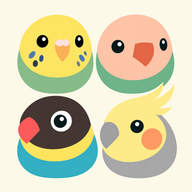
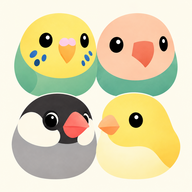
名称をことり日和へ、連絡先をcontact@hijikilabo.comへ変更し、写真の上限説明を更新する
アプリ側の3ページと見出しのアイコン（4羽のA案）を反映。トップページとREADMEも改名。

diff --git a/support.html b/support.html
@@ -4,19 +4,19 @@
   <meta charset="utf-8"><meta name="viewport" content="width=device-width,initial-scale=1,viewport-fit=cover">
   <meta http-equiv="Content-Security-Policy" content="default-src 'self'; style-src 'self'; img-src 'self'; object-src 'none'; base-uri 'self'; form-action 'none'">
   <meta name="theme-color" content="#406553">
-  <title>サポート · インコ日和</title>
+  <title>サポート · ことり日和</title>
   <link rel="stylesheet" href="./legal.css">
 </head>
 <body>
 <div class="wrap">
-  <header><img src="./icon-inko-192.png" alt=""><a href="./">インコ日和</a></header>
+  <header><img src="./icon-inko-192.png" alt=""><a href="./">ことり日和</a></header>
   <h1>サポート</h1>
   <p class="meta">愛鳥との毎日を、やさしく記録するアプリです。</p>
 
   <section>
     <h2>お問い合わせ</h2>
     <p>不具合のご報告、ご質問、ご要望は、次のメールアドレスまでお送りください。</p>
-    <p><strong><a href="mailto:kokumei.passport.support@gmail.com?subject=%E3%82%A4%E3%83%B3%E3%82%B3%E6%97%A5%E5%92%8C%E3%81%AB%E3%81%A4%E3%81%84%E3%81%A6">kokumei.passport.support@gmail.com</a></strong></p>
+    <p><strong><a href="mailto:contact@hijikilabo.com?subject=%E3%81%93%E3%81%A8%E3%82%8A%E6%97%A5%E5%92%8C%E3%81%AB%E3%81%A4%E3%81%84%E3%81%A6">contact@hijikilabo.com</a></strong></p>
     <p>個人で開発しているため、お返事までに数日かかることがあります。また、すべてのご要望にお応えできない場合があります。</p>
     <h3>不具合のご報告に書いていただきたいこと</h3>
     <ul>
@@ -59,14 +59,14 @@
     <details>
       <summary>通知が届きません</summary>
       <ul>
-        <li>iPhoneの「設定 → 通知 → インコ日和」で通知が許可されているか確認してください。</li>
+        <li>iPhoneの「設定 → 通知 → ことり日和」で通知が許可されているか確認してください。</li>
         <li>集中モードや消音の設定によっては、通知が表示されなかったり音が鳴らなかったりします。</li>
       </ul>
     </details>
 
     <details>
       <summary>写真や動画が追加できません</summary>
-      <p>写真・動画は合計100件、データ全体は約38MBまで保存できます。上限に近い場合は、バックアップを書き出してから不要な写真や動画を削除してください。画像は1枚25MB以下、動画は1本8MB以下のものを選んでください。</p>
+      <p>写真・動画は合計100件まで（iPhone版のプレミアムでは1,000件まで）保存できます。iPhone版の写真・動画は端末の空き容量も使います。上限に近い場合は、バックアップを書き出してから不要な写真や動画を削除してください。画像は1枚25MB以下、動画は1本8MB以下のものを選んでください。</p>
     </details>
 
     <details>
@@ -101,7 +101,7 @@
   </section>
 
   <nav class="links"><a href="./privacy.html">プライバシーポリシー</a><a href="./tokushoho.html">特定商取引法に基づく表記</a><a href="./">トップ</a></nav>
-  <footer>© 2026 インコ日和</footer>
+  <footer>© 2026 ことり日和</footer>
 </div>
 </body>
 </html>

diff --git a/privacy.html b/privacy.html
@@ -4,24 +4,24 @@
   <meta charset="utf-8"><meta name="viewport" content="width=device-width,initial-scale=1,viewport-fit=cover">
   <meta http-equiv="Content-Security-Policy" content="default-src 'self'; style-src 'self'; img-src 'self'; object-src 'none'; base-uri 'self'; form-action 'none'">
   <meta name="theme-color" content="#406553">
-  <title>プライバシーポリシー · インコ日和</title>
+  <title>プライバシーポリシー · ことり日和</title>
   <link rel="stylesheet" href="./legal.css">
 </head>
 <body>
 <div class="wrap">
-  <header><img src="./icon-inko-192.png" alt=""><a href="./">インコ日和</a></header>
+  <header><img src="./icon-inko-192.png" alt=""><a href="./">ことり日和</a></header>
   <h1>プライバシーポリシー</h1>
   <p class="meta">制定日：2026年10月24日 ／ 最終改定日：2026年10月27日（Web版の公開終了に合わせて修正）</p>
 
   <section>
-    <p class="lead">「インコ日和」（以下「本アプリ」）は、愛鳥の写真と飼育記録を<strong>お使いの端末の中だけに保存する</strong>アプリです（iPhone版で「家族と共有」を使う場合は、下の4-3のとおり、招待した人のiCloudにも保存されます）。開発者は、あなたが本アプリに入力した写真・記録・プロフィールを受け取ったり、見たりすることはできません。</p>
+    <p class="lead">「ことり日和」（以下「本アプリ」）は、愛鳥の写真と飼育記録を<strong>お使いの端末の中だけに保存する</strong>アプリです（iPhone版で「家族と共有」を使う場合は、下の4-3のとおり、招待した人のiCloudにも保存されます）。開発者は、あなたが本アプリに入力した写真・記録・プロフィールを受け取ったり、見たりすることはできません。</p>
     <p>このポリシーは、App Store版に適用されます。以前公開していたWeb版（ホーム画面に追加して使う版）をお使いの場合も同じです。</p>
   </section>
 
   <section>
     <h2>1. 運営者</h2>
-    <p>運営者：インコ日和 運営者（個人）<br>
-    連絡先：<a href="mailto:kokumei.passport.support@gmail.com?subject=%E3%82%A4%E3%83%B3%E3%82%B3%E6%97%A5%E5%92%8C%E3%81%AB%E3%81%A4%E3%81%84%E3%81%A6">kokumei.passport.support@gmail.com</a>（<a href="./support.html">サポートページ</a>）</p>
+    <p>運営者：ことり日和 運営者（個人）<br>
+    連絡先：<a href="mailto:contact@hijikilabo.com?subject=%E3%81%93%E3%81%A8%E3%82%8A%E6%97%A5%E5%92%8C%E3%81%AB%E3%81%A4%E3%81%84%E3%81%A6">contact@hijikilabo.com</a>（<a href="./support.html">サポートページ</a>）</p>
     <p>運営者の氏名などは、お問い合わせいただいた場合に遅滞なくお知らせします。</p>
   </section>
 
@@ -119,7 +119,7 @@
   </section>
 
   <nav class="links"><a href="./support.html">サポート・よくある質問</a><a href="./">トップ</a></nav>
-  <footer>© 2026 インコ日和</footer>
+  <footer>© 2026 ことり日和</footer>
 </div>
 </body>
 </html>

diff --git a/tokushoho.html b/tokushoho.html
@@ -4,23 +4,23 @@
   <meta charset="utf-8"><meta name="viewport" content="width=device-width,initial-scale=1,viewport-fit=cover">
   <meta http-equiv="Content-Security-Policy" content="default-src 'self'; style-src 'self'; img-src 'self'; object-src 'none'; base-uri 'self'; form-action 'none'">
   <meta name="theme-color" content="#406553">
-  <title>特定商取引法に基づく表記 · インコ日和</title>
+  <title>特定商取引法に基づく表記 · ことり日和</title>
   <link rel="stylesheet" href="./legal.css">
 </head>
 <body>
 <div class="wrap">
-  <header><img src="./icon-inko-192.png" alt=""><a href="./">インコ日和</a></header>
+  <header><img src="./icon-inko-192.png" alt=""><a href="./">ことり日和</a></header>
   <h1>特定商取引法に基づく表記</h1>
   <p class="meta">制定日：2026年10月24日 ／ 最終改定日：2026年10月26日（動作環境と販売内容を修正）</p>
 
   <section>
     <dl class="law">
       <dt>販売事業者</dt>
-      <dd>インコ日和 運営者（個人）</dd>
+      <dd>ことり日和 運営者（個人）</dd>
       <dt>運営責任者・所在地・電話番号</dt>
       <dd>請求があった場合には、遅滞なく電子メールでお知らせします。下記のメールアドレスまでご連絡ください。</dd>
       <dt>メールアドレス</dt>
-      <dd><a href="mailto:kokumei.passport.support@gmail.com?subject=%E3%82%A4%E3%83%B3%E3%82%B3%E6%97%A5%E5%92%8C%E3%81%AB%E3%81%A4%E3%81%84%E3%81%A6">kokumei.passport.support@gmail.com</a></dd>
+      <dd><a href="mailto:contact@hijikilabo.com?subject=%E3%81%93%E3%81%A8%E3%82%8A%E6%97%A5%E5%92%8C%E3%81%AB%E3%81%A4%E3%81%84%E3%81%A6">contact@hijikilabo.com</a></dd>
       <dt>販売するもの</dt>
       <dd>アプリ内課金「プレミアム」（買い切り）。2羽目以降の愛鳥の登録、iPhone版での家族との記録の共有、グラフの長期間表示、受診用レポート（PDF・CSV・動物病院向けの1枚サマリー・CSVからの記録の追加）、記録だけのバックアップ、記念日カード、成長アルバム、背景の色・ホームの並び順・ホーム写真のレイアウトの変更、ロック画面の放鳥タイマーが使えるようになります。</dd>
       <dt>販売価格</dt>
@@ -41,7 +41,7 @@
   </section>
 
   <nav class="links"><a href="./privacy.html">プライバシーポリシー</a><a href="./support.html">サポート・よくある質問</a><a href="./">トップ</a></nav>
-  <footer>© 2026 インコ日和</footer>
+  <footer>© 2026 ことり日和</footer>
 </div>
 </body>
 </html>

diff --git a/index.html b/index.html
@@ -4,15 +4,15 @@
   <meta charset="utf-8"><meta name="viewport" content="width=device-width,initial-scale=1,viewport-fit=cover">
   <meta http-equiv="Content-Security-Policy" content="default-src 'self'; style-src 'self'; img-src 'self'; object-src 'none'; base-uri 'self'; form-action 'none'">
   <meta name="theme-color" content="#406553">
-  <title>インコ日和</title>
+  <title>ことり日和</title>
   <link rel="stylesheet" href="./legal.css">
 </head>
 <body>
 <div class="wrap">
-  <header><img src="./icon-inko-192.png" alt=""><a href="./">インコ日和</a></header>
+  <header><img src="./icon-inko-192.png" alt=""><a href="./">ことり日和</a></header>
 
-  <h1>インコ日和</h1>
-  <p>インコとの毎日を、体重・健康・放鳥・写真で記録するiPhoneアプリです。写真と記録は端末の中に保存され、外部のサーバーには送られません。</p>
+  <h1>ことり日和</h1>
+  <p>小鳥との毎日を、体重・健康・放鳥・写真で記録するiPhoneアプリです。写真と記録は端末の中に保存され、外部のサーバーには送られません。</p>
   <p>このサイトには、アプリのサポートと規約のページを置いています。</p>
 
   <nav class="links"><a href="./support.html">サポート・よくある質問</a><a href="./privacy.html">プライバシーポリシー</a><a href="./tokushoho.html">特定商取引法に基づく表記</a></nav>

diff --git a/README.md b/README.md
@@ -1,6 +1,6 @@
-# インコ日和 サポートサイト
+# ことり日和 サポートサイト
 
-App Store版「インコ日和」のサポート・プライバシーポリシー・特定商取引法に基づく表記を公開するためのリポジトリです（GitHub Pages）。
+App Store版「ことり日和」のサポート・プライバシーポリシー・特定商取引法に基づく表記を公開するためのリポジトリです（GitHub Pages）。
 
 - 元の文章はアプリのリポジトリ（非公開）の `support.html`・`privacy.html`・`tokushoho.html`・`legal.css`・`icon-inko-192.png` です。文章を直すときはアプリ側を直してから、ここへコピーします。
 - コピーするとき、ページ下の「アプリを開く」は「トップ」に置き換えます（このサイトにはアプリ本体がないため）。
